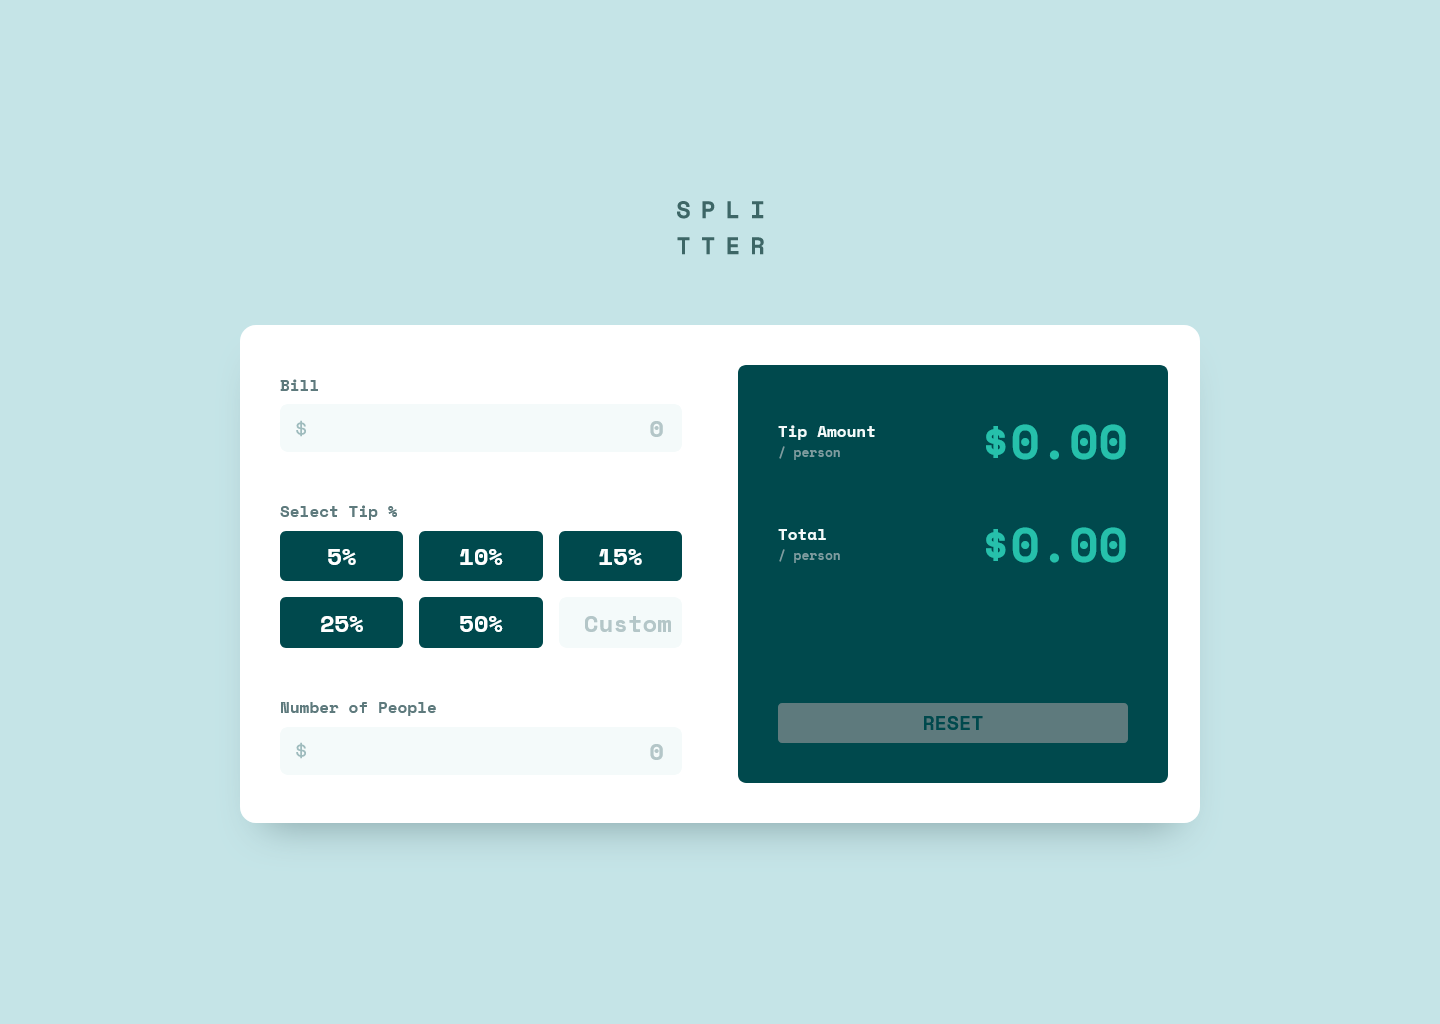
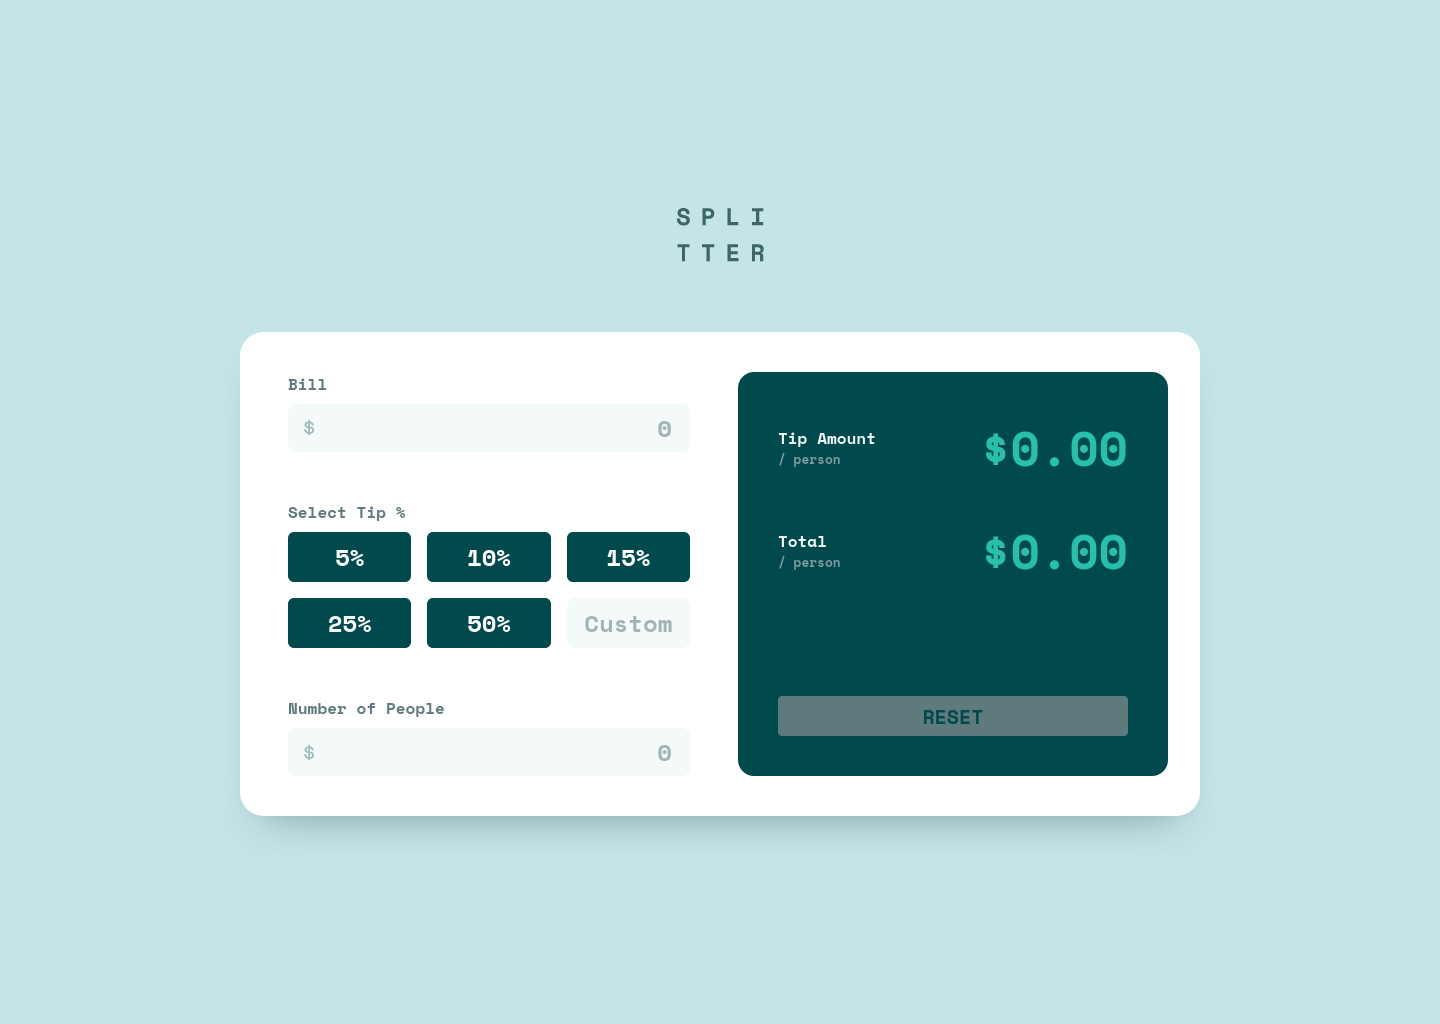
Adjust styling and replace screenshots

diff --git a/src/components/Main/MainStyles.js b/src/components/Main/MainStyles.js
@@ -9,7 +9,7 @@ export const StyledMain = styled.main`
   justify-items: space-between;
 
   border-radius: 1.5em;
-  gap: 3em;
+  gap: 2em;
   box-shadow: 0 1.5em 2.5em -1.5em ${({ theme }) => theme.colors.neutral.grayishCyan};
 
   @media (max-width: 1024px) {
@@ -32,6 +32,7 @@ export const Form = styled.form`
   display: flex;
   flex-direction: column;
   gap: 3em;
+  padding: 0 1em;
 
   @media (max-width: 768px) {
     width: 100%;
